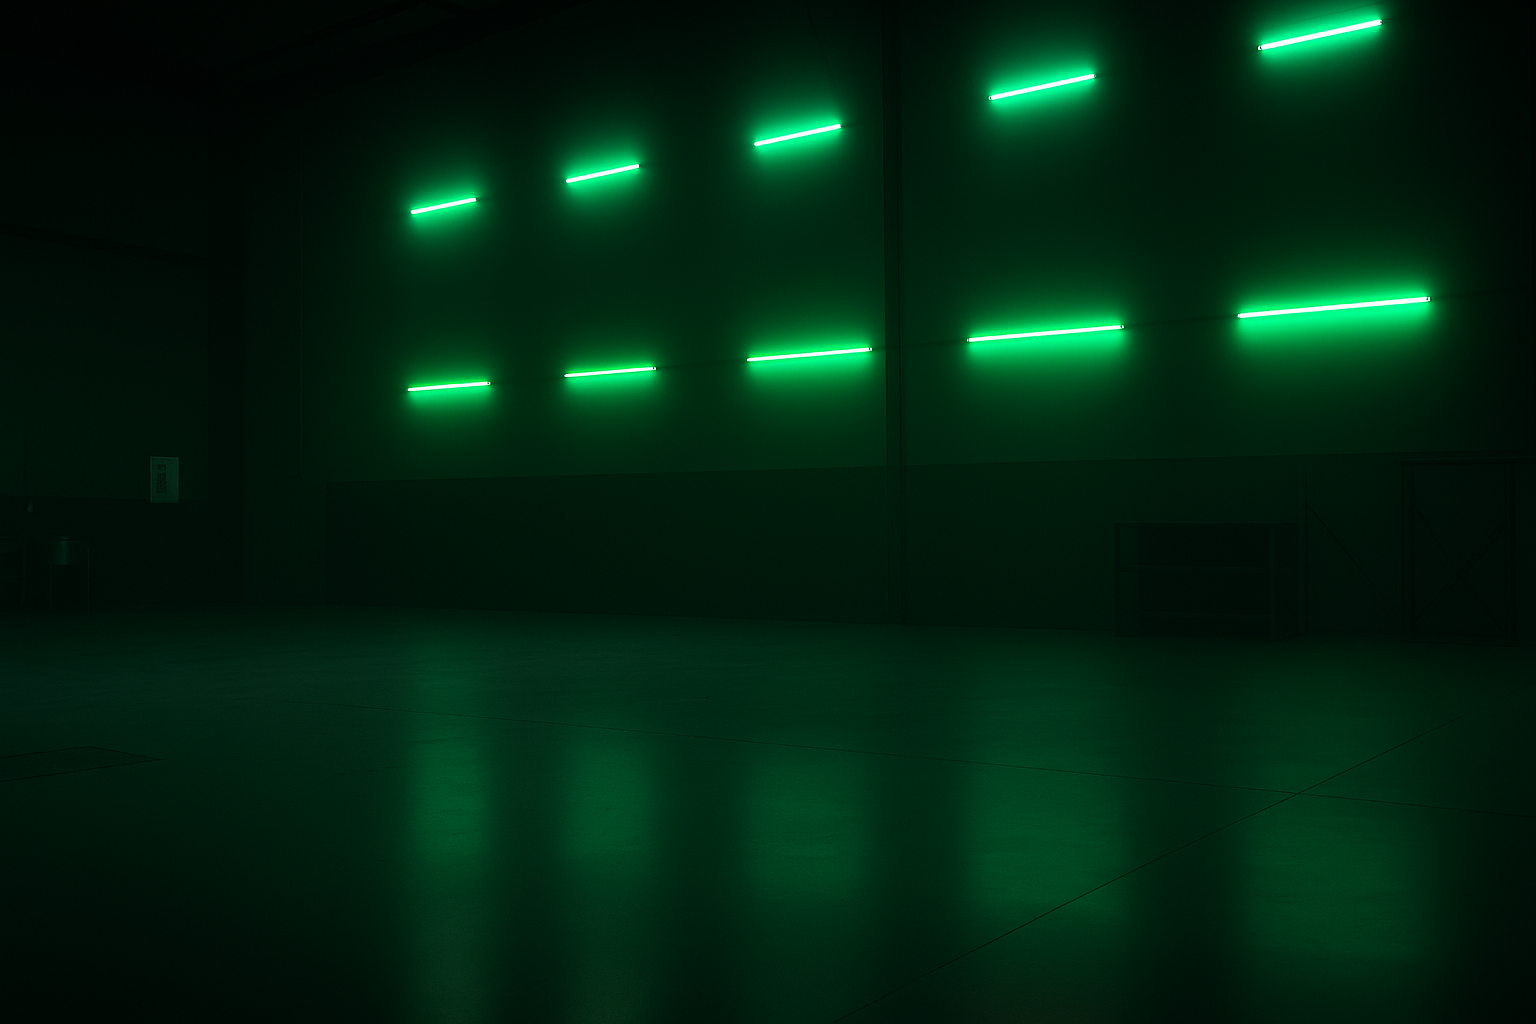
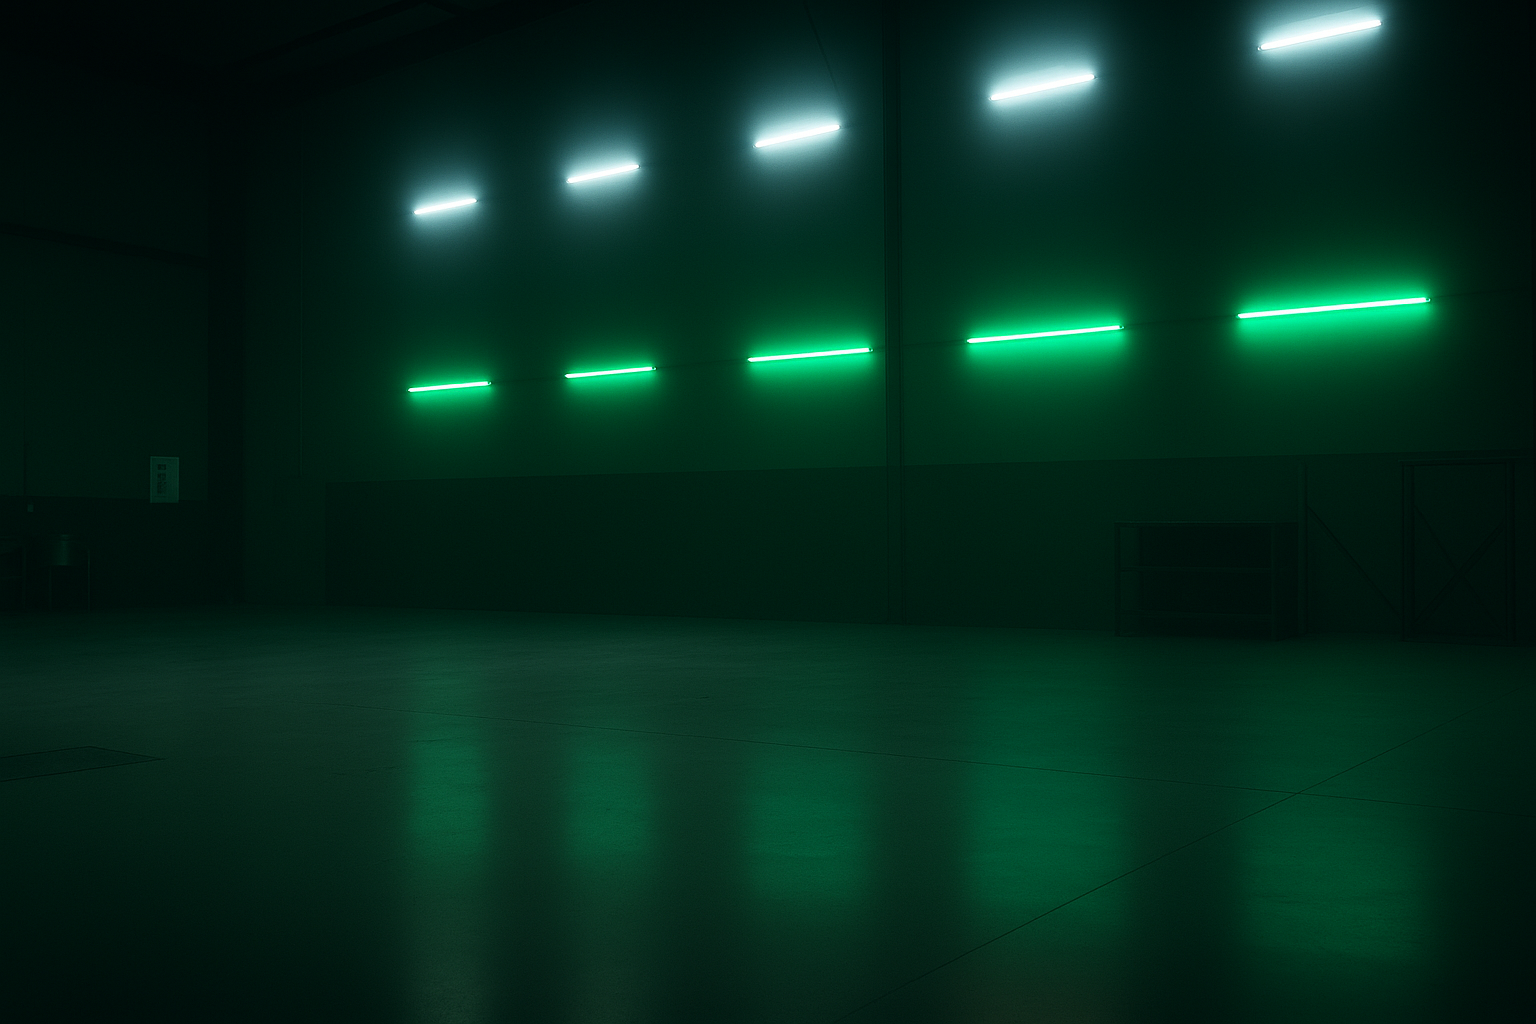
Alterações no banckground para branco

diff --git a/src/components/HeroSection.css b/src/components/HeroSection.css
@@ -18,7 +18,7 @@
   right: 0;
   bottom: 0;
   /* background-image: url('/base_hero.svg');  */
-  background-image: url('/hero_background1.png');
+  background-image: url('/hero_background5.png');
   background-size: cover;
   background-position: center;
   background-repeat: no-repeat;
